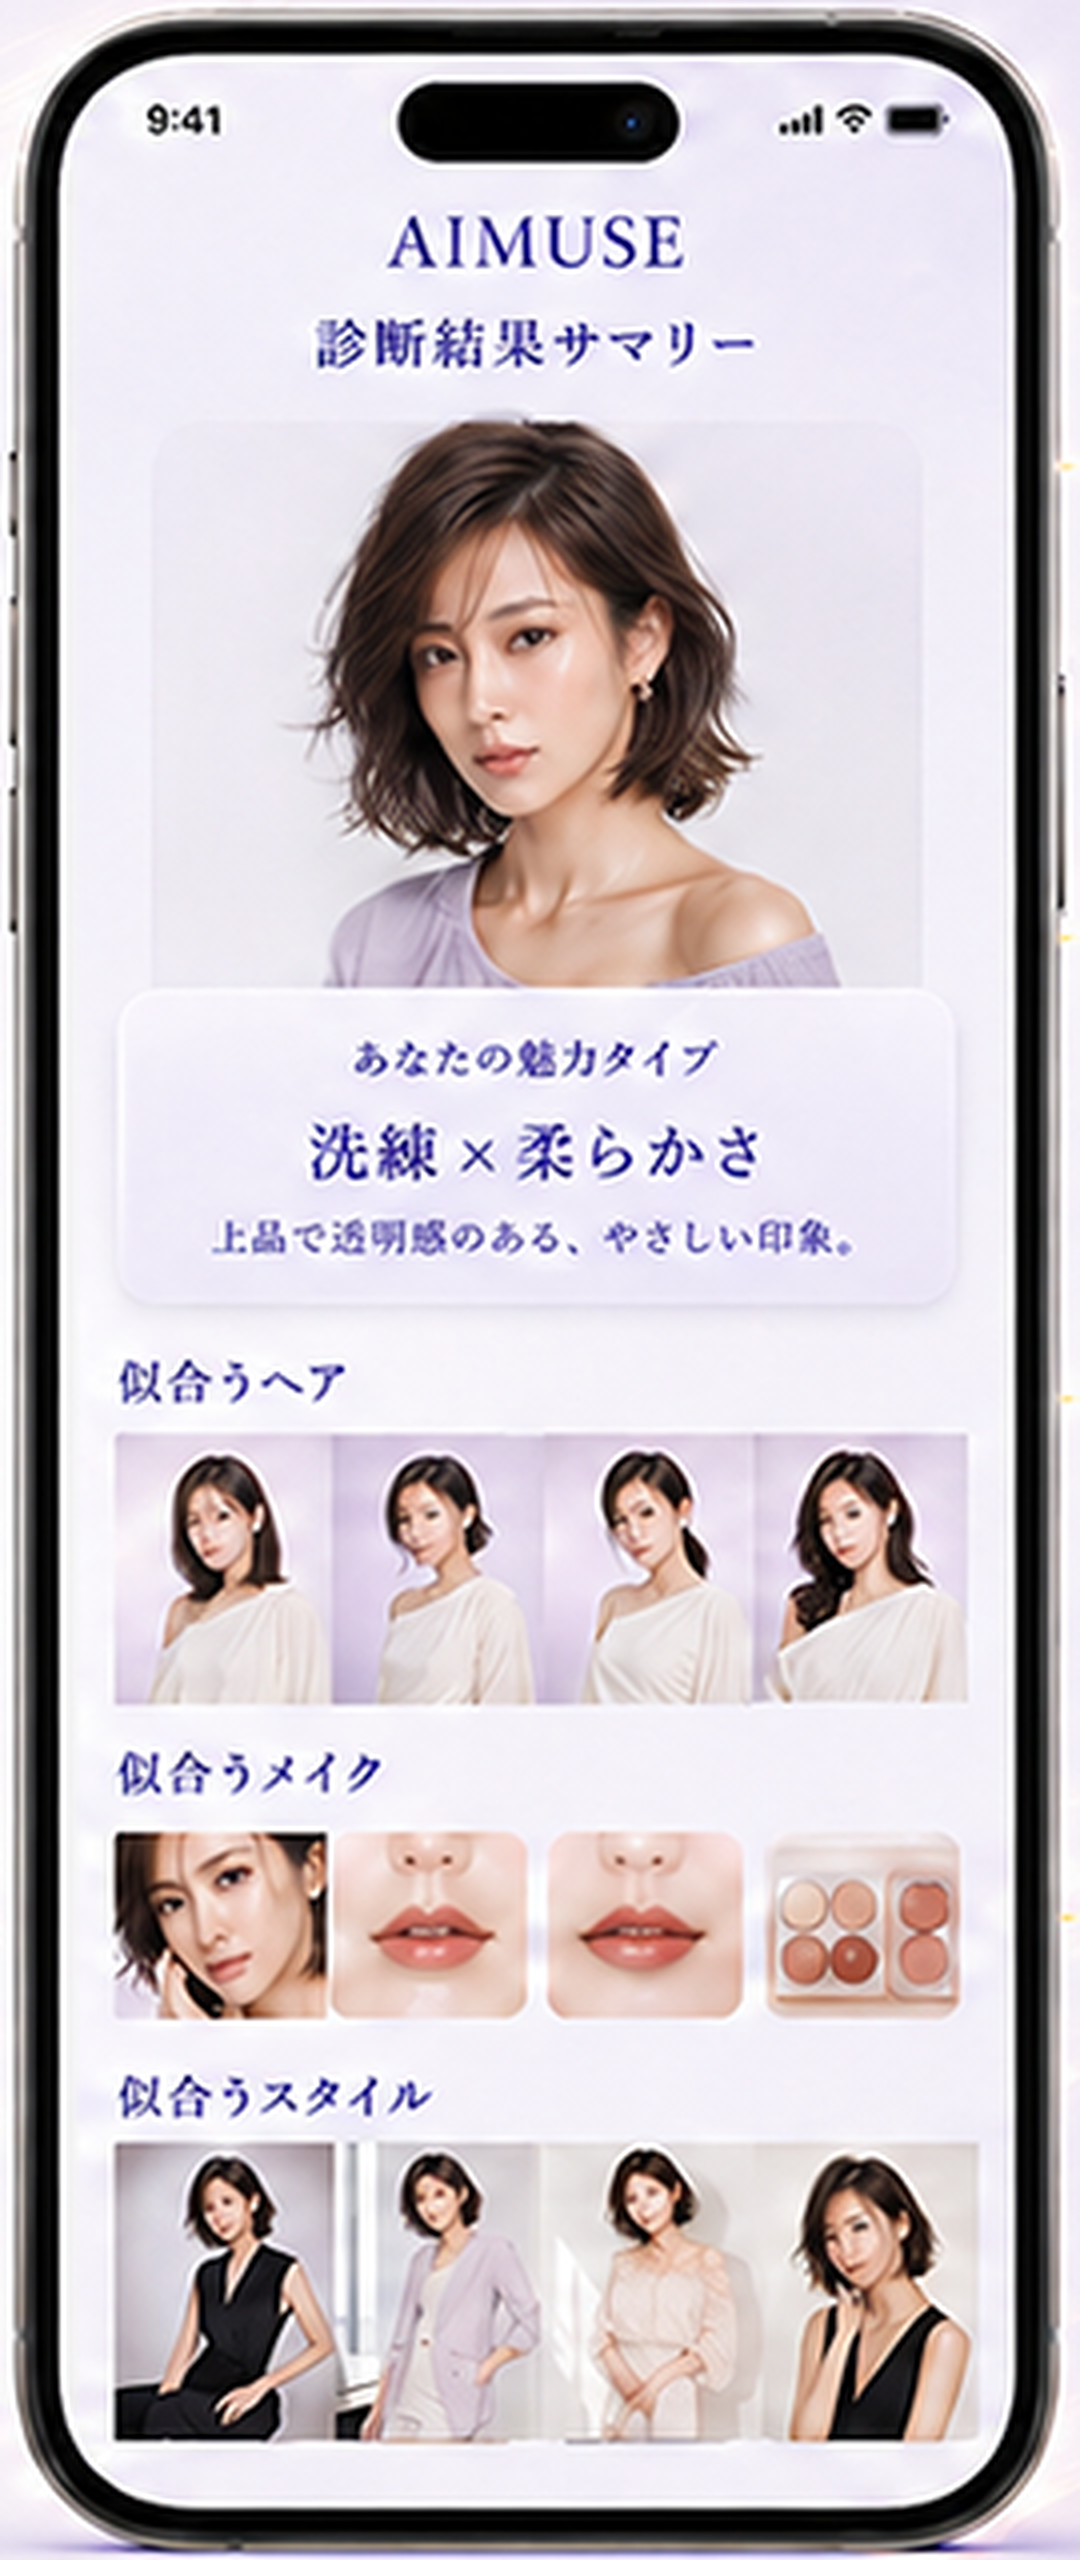
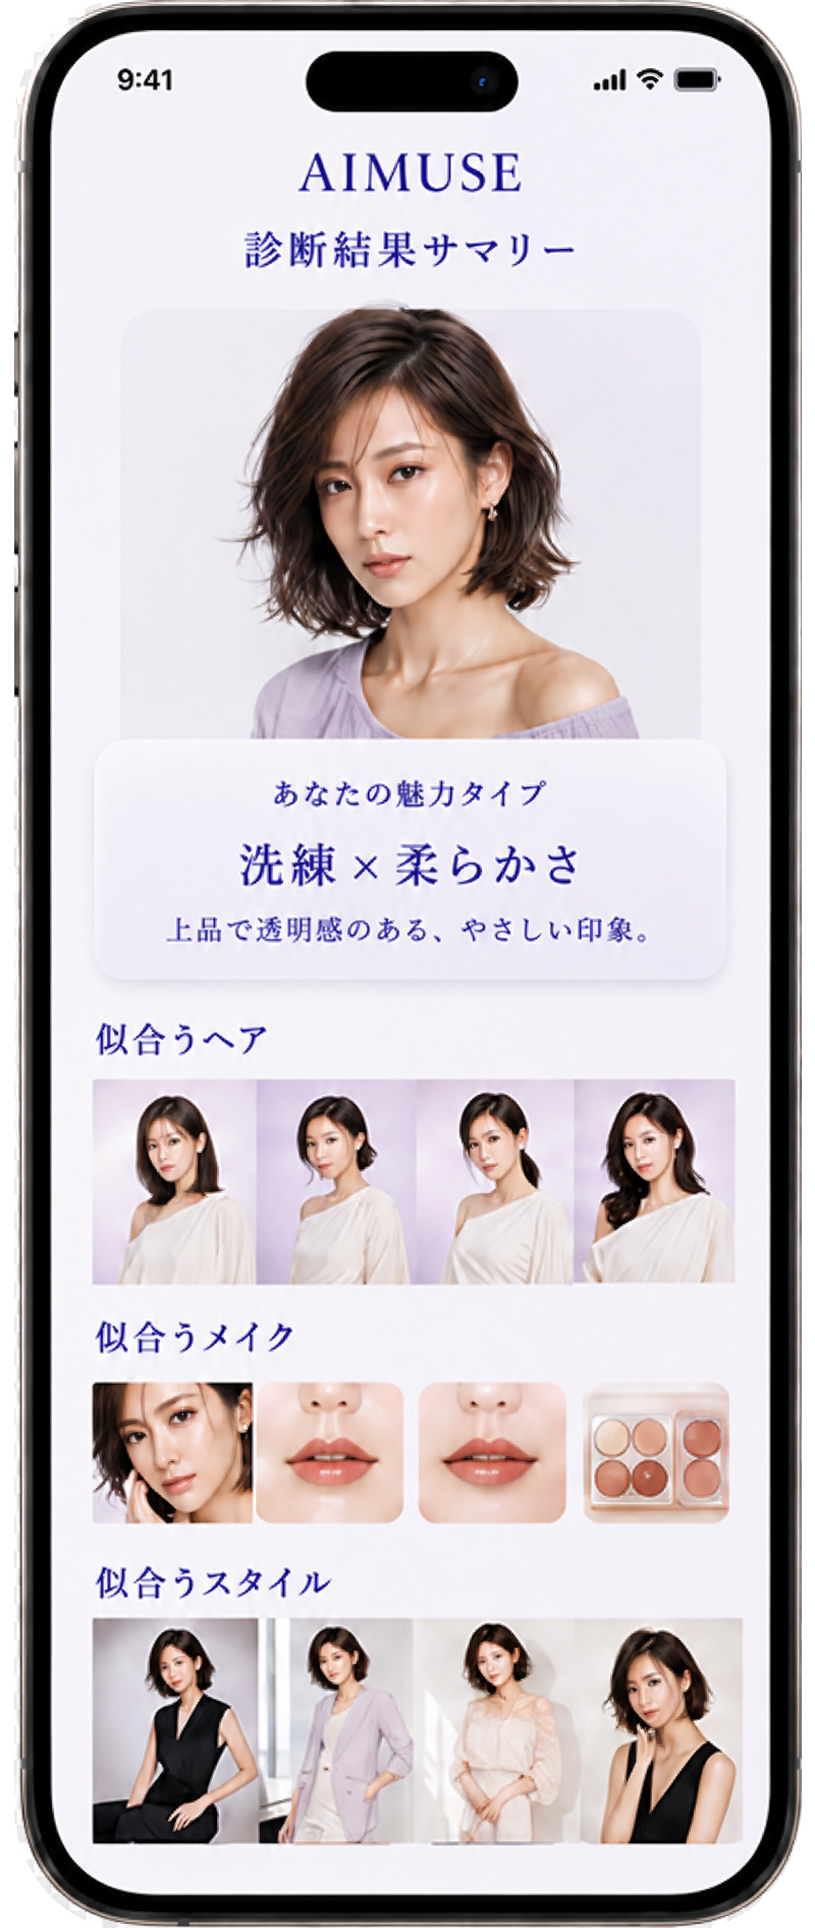
调整对比卡片布局与手机图片透明展示

diff --git a/src/components/sections/CompareSection.tsx b/src/components/sections/CompareSection.tsx
@@ -30,7 +30,7 @@ export function CompareSection() {
             <div className="mt-5 h-px w-[300px] bg-[var(--aimuse-gold)]/50" />
           </SectionReveal>
 
-          <div className="absolute left-[2%] top-[226px] z-[3] grid grid-cols-[250px_30px_250px_30px_290px] items-center gap-0 min-[1400px]:top-[184px] min-[1400px]:grid-cols-[280px_38px_280px_38px_322px]">
+          <div className="absolute left-[2%] top-[250px] z-[3] grid grid-cols-[238px_44px_238px_44px_300px] items-center gap-0 min-[1400px]:top-[208px] min-[1400px]:grid-cols-[260px_48px_260px_48px_300px]">
             <ComparePanel compactDesktop title="普通のAI変身アプリ" subtitle="変身・画像生成体験" image={compareBeforeAfter} imageAlt="普通のAI変身アプリ" items={[['画像を生成できる', true], ['見た目の変化がわかる', true], ['似合う理由はわからない', false]]} />
             <VsBadge />
             <ComparePanel compactDesktop title="美容アプリ" subtitle="情報・美容コンテンツ体験" image={compareGrid} imageAlt="美容アプリ" items={[['情報が多い', true], ['流行・人気がわかる', true], ['似合う理由はわからない', false]]} />
@@ -38,19 +38,19 @@ export function CompareSection() {
             <ComparePanel compactDesktop gold title="AIMUSE" subtitle="理由から選び、行動につながる体験" image={logoTransparent} imageAlt="AIMUSE" items={[['似合う理由から納得して選べる', true], ['顔立ち・雰囲気・色を総合分析', true], ['商品・サロン・美容師選びに直結', true], ['自分らしく、自信を持って選べる', true]]} />
           </div>
 
-          <SectionReveal delay={300} className="absolute right-[3%] top-[30px] z-[4] min-[1400px]:right-[8%] min-[1400px]:top-[4px]">
-            <img src={comparePhone} alt="AIMUSE診断結果" className="w-[220px] drop-shadow-[0_25px_40px_rgba(60,37,112,0.3)] min-[1400px]:w-[260px]" loading="lazy" />
+          <SectionReveal delay={300} className="absolute right-[3%] top-[20px] z-[4] min-[1400px]:right-[8%] min-[1400px]:top-[12px]">
+            <img src={comparePhone} alt="AIMUSE診断結果" className="w-[300px] origin-top scale-y-[0.88] min-[1400px]:w-[320px] min-[1400px]:scale-y-[0.86]" loading="lazy" />
           </SectionReveal>
-          <div className="absolute right-[-1%] top-[68px] z-[5] flex flex-col gap-5">
+          <div className="absolute right-[-1%] top-[92px] z-[5] flex flex-col gap-5">
             {SIDE_ICONS.map((s) => (
-              <div key={s.label} className="compare-side-icon relative grid h-[78px] w-[78px] place-items-center rounded-full border border-[var(--aimuse-gold)]/70 bg-white/65 text-[var(--aimuse-purple)] shadow-[0_4px_18px_rgba(110,77,180,0.12)]">
+              <div key={s.label} className="compare-side-icon relative grid h-[88px] w-[88px] place-items-center rounded-full bg-transparent text-[var(--aimuse-purple)]">
                 <img src={s.image} alt={s.label.replace('\n', ' ')} className="h-full w-full object-contain" loading="lazy" />
               </div>
             ))}
           </div>
-          <SectionReveal delay={450} className="absolute inset-x-0 bottom-0 text-center text-[18px] leading-relaxed text-[var(--aimuse-deep-purple)]">
+          <p className="absolute inset-x-0 bottom-[10px] text-center text-[18px] leading-relaxed text-[var(--aimuse-deep-purple)]">
             AIMUSEは、「私だけに似合う」理由を読み解き、現実の選択につなげるAIビューティーミューズです。
-          </SectionReveal>
+          </p>
         </div>
 
         <div className="xl:hidden">
@@ -63,7 +63,7 @@ export function CompareSection() {
             <ComparePanel compact title="普通のAI変身アプリ" subtitle="変身・画像生成体験" image={compareBeforeAfter} imageAlt="普通のAI変身アプリ" items={[['画像を生成できる', true], ['見た目の変化がわかる', true], ['似合う理由はわからない', false]]} />
             <ComparePanel compact title="美容アプリ" subtitle="情報・美容コンテンツ体験" image={compareGrid} imageAlt="美容アプリ" items={[['情報が多い', true], ['流行・人気がわかる', true], ['似合う理由はわからない', false]]} />
             <ComparePanel compact gold title="AIMUSE" subtitle="理由から選び、行動につながる体験" image={logoTransparent} imageAlt="AIMUSE" items={[['似合う理由から納得して選べる', true], ['顔立ち・雰囲気・色を総合分析', true], ['商品・サロン・美容師選びに直結', true], ['自分らしく、自信を持って選べる', true]]} />
-            <img src={comparePhone} alt="AIMUSE診断結果" className="mx-auto w-[220px] drop-shadow-[0_25px_40px_rgba(60,37,112,0.3)]" loading="lazy" />
+            <img src={comparePhone} alt="AIMUSE診断結果" className="mx-auto w-[220px]" loading="lazy" />
           </div>
           <p className="mt-10 text-center text-[15px] leading-relaxed text-[var(--aimuse-deep-purple)]">AIMUSEは、「私だけに似合う」理由を読み解き、現実の選択につなげるAIビューティーミューズです。</p>
         </div>
